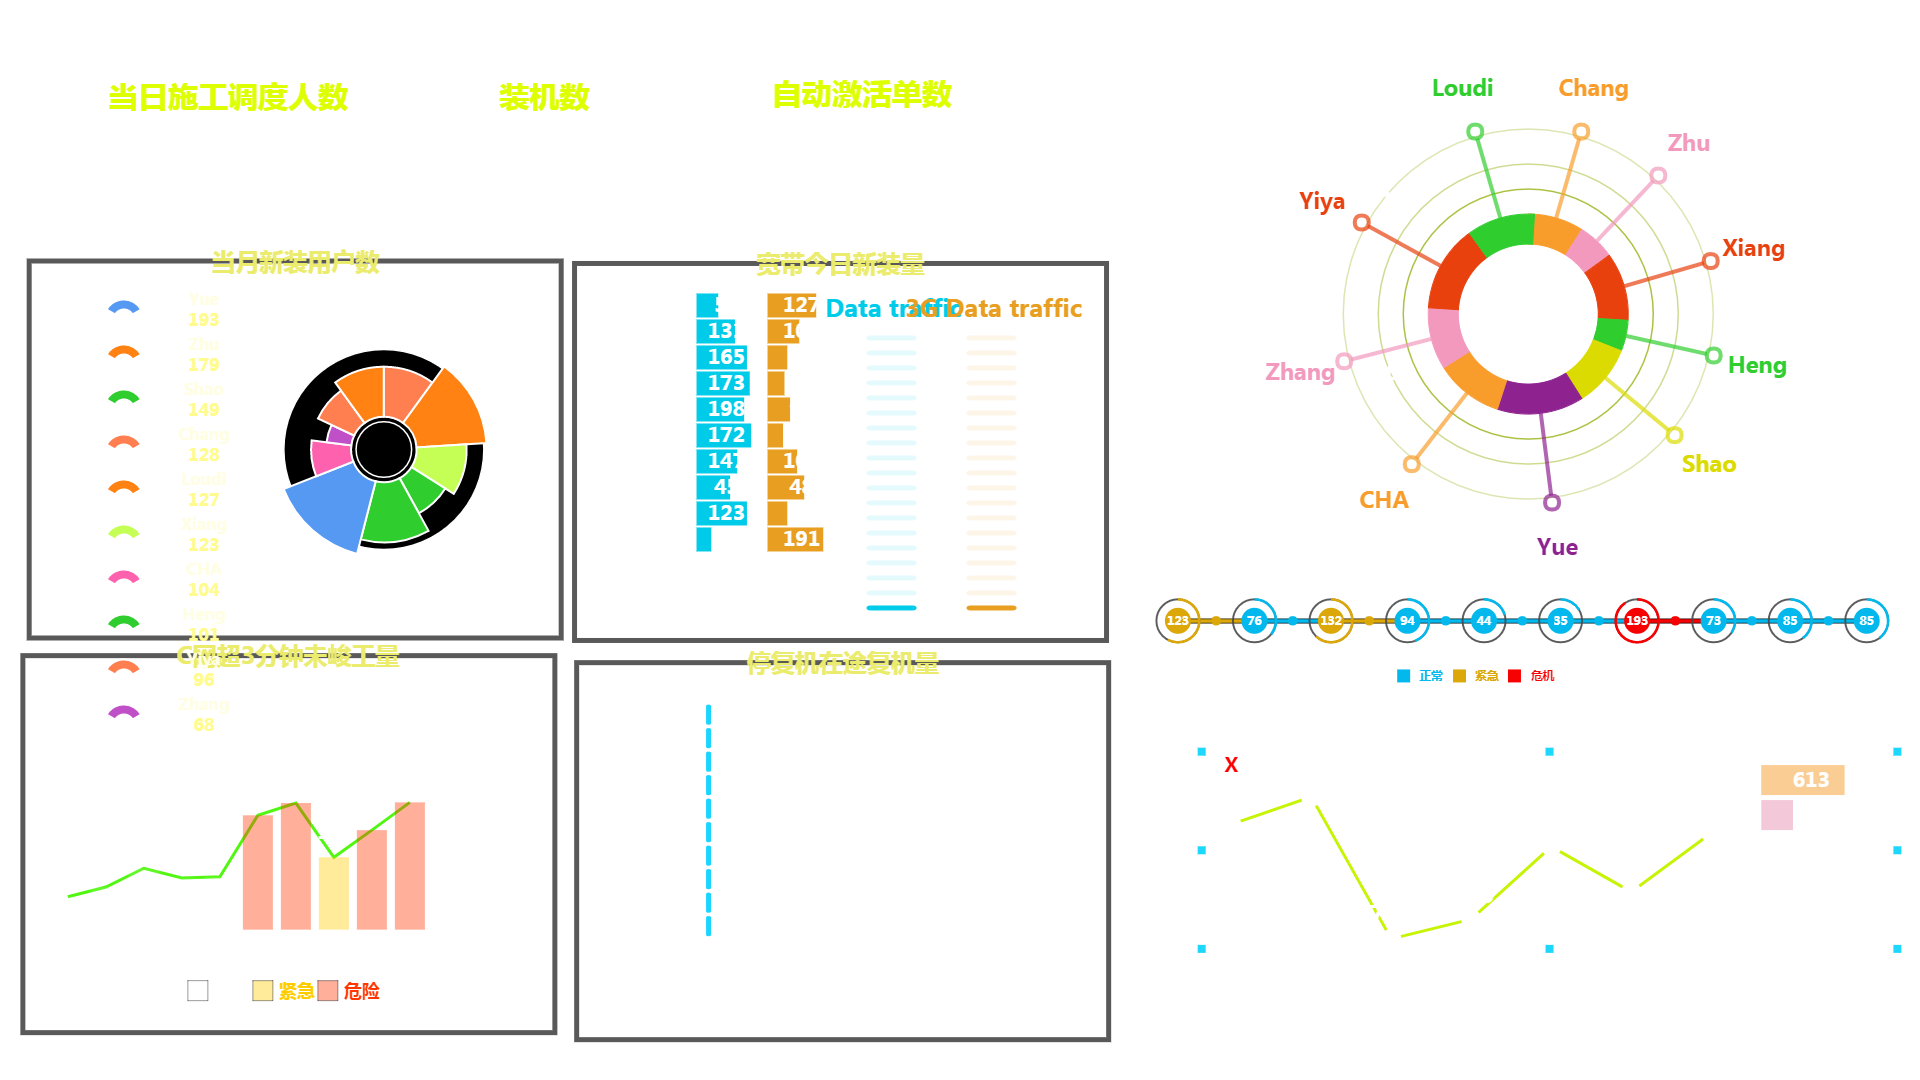
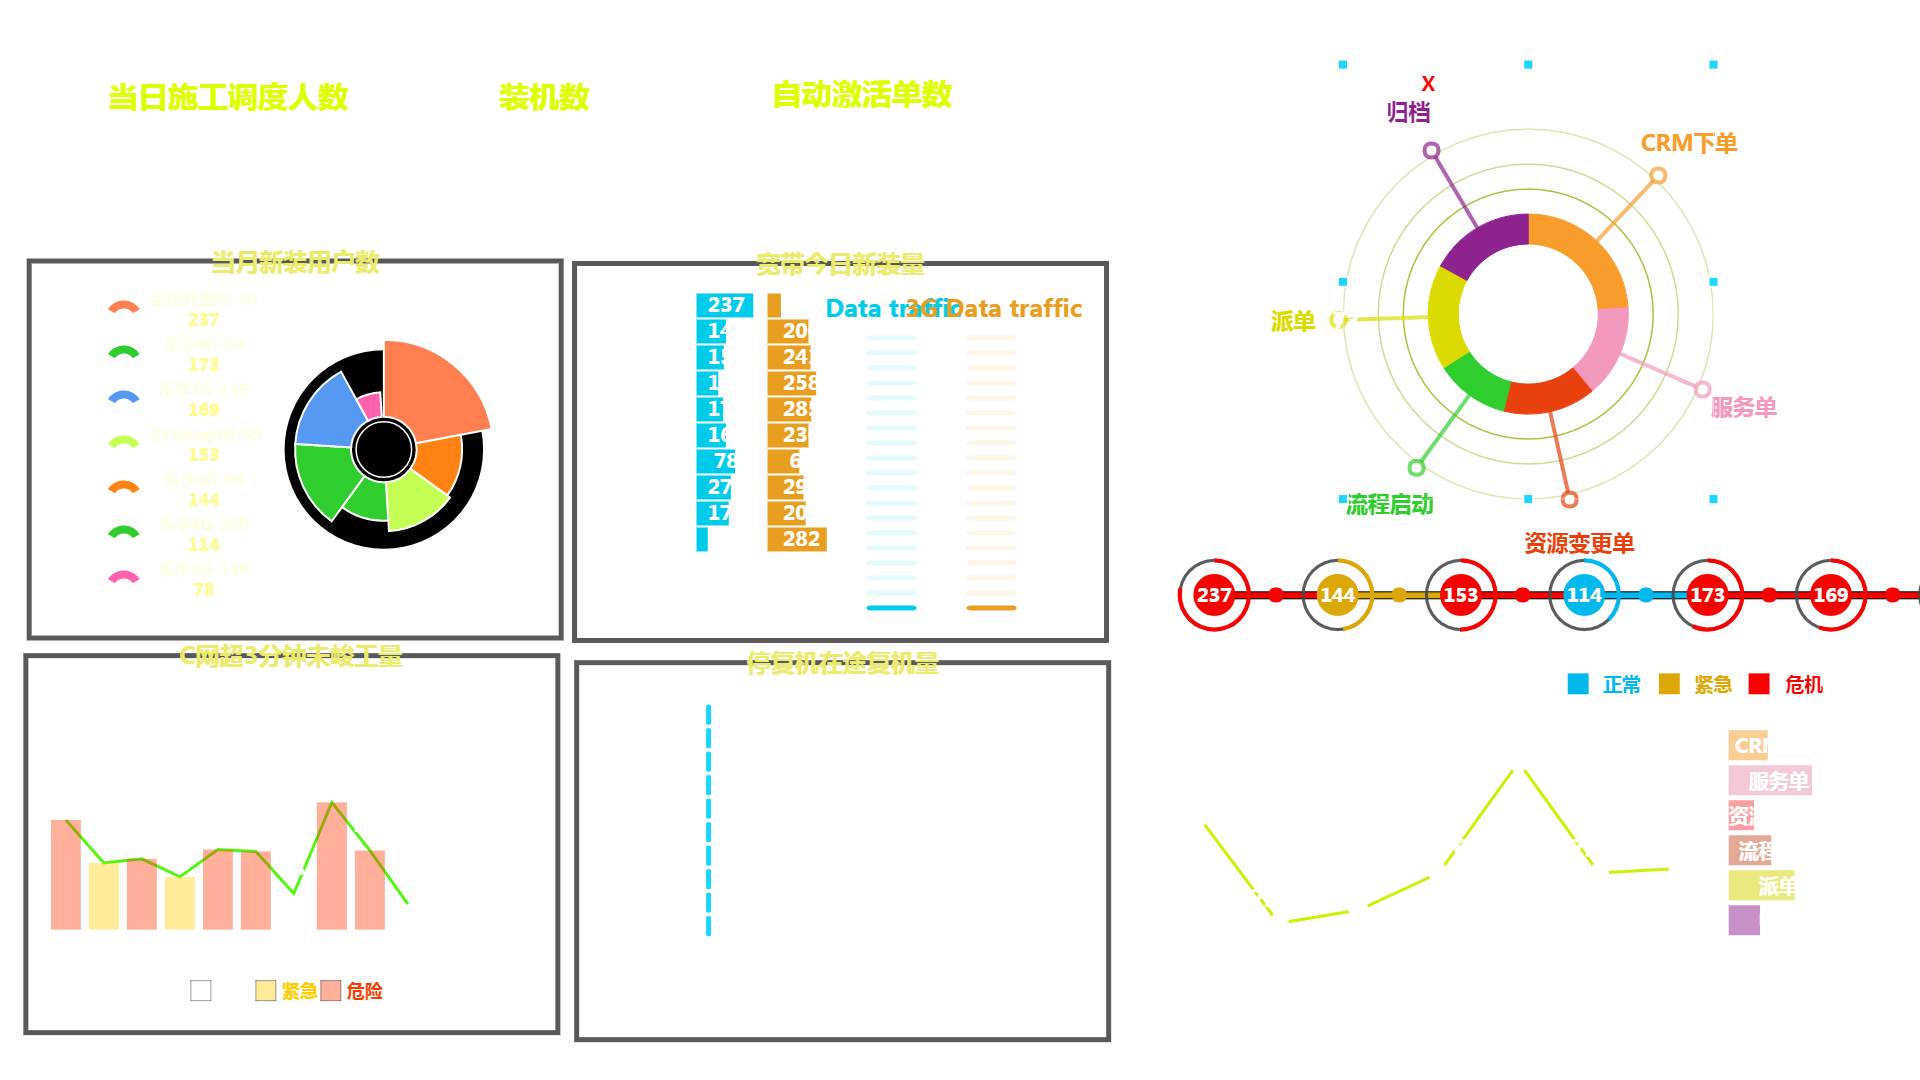
所需要图片

diff --git a/pm2/screendesigner/js/graphLibs/GTableBase.js b/pm2/screendesigner/js/graphLibs/GTableBase.js
@@ -37,6 +37,10 @@ define([
 
             //this.attrs.titles.push('序号');
 
+
+            var condiFmts = JSON.parse(this.attrs.condiFmtItemList||'[]')
+            console.log("condiFmts");
+            console.log(condiFmts);
             var heardes = this.attrs.titles;
             if (this.attrs.seqShow=='on'){
                 if (this.attrs.isSeqPos == 1) {
@@ -85,6 +89,8 @@ define([
             });
             var data_x = x;
             var data_y = y + box.height + box.height;
+              console.log("adhsahkjdhkjdhasjkdasjhj");
+
             for (var i = 0; i < datas.length; i++) {
                 var data;
                 if (this.attrs.seqShow=='on'){
@@ -99,15 +105,19 @@ define([
 
                 var item_x = data_x;
                 var item_y = data_y + (box.height * i);
+
                 for (var j = 0; j < data.length; j++) {
+
                     var j_x = data_x + (j * (space+maxBoxW));
                     var color = this.attrs.valueColor;
                     if (this.attrs.seqShow=='on'){
                         if (j == data.length - 1 && this.attrs.isSeqPos == 2) color = this.attrs.seqColor;
                         if (j == 0 && this.attrs.isSeqPos == 1) color = this.attrs.seqColor;
                     }
+
+                    var color2 =  this.getColorByCondiFmts(heardes[j], data[j],condiFmts)
                     this.doms['data' + i + '_' + j] = paper.text(j_x, item_y, data[j]).attr({
-                        'fill': color,
+                        'fill': color2||color,
                         'font-size': 18,
                         'font-family': '微软雅黑',
                         'font-weight': 'bold'
@@ -129,6 +139,67 @@ define([
                 'font-weight': 'bold'
             });;
 
+        },
+        getColorByCondiFmts:function(name,value,condiFmts) {
+            var codi = fish.find(condiFmts,function(codi) {
+               return codi.KPI_INDEX==name
+            });
+            if(codi){
+
+              if(codi.KPI_FMT=="GT"){
+                 if(value>codi.KPI_VALUE){
+                    return codi.KPI_COLOR
+                 }
+                 return null;
+              }
+              if(codi.KPI_FMT=="BT"){
+                 var values= codi.KPI_VALUE.split('~');
+                 if(value>=values[0] && value<=values[1]){
+                     return codi.KPI_COLOR
+                 }
+                 return null;
+              }
+              if(codi.KPI_FMT=="EQ"){
+                 if(value==codi.KPI_VALUE){
+                    return codi.KPI_COLOR
+                 }
+                 return null;
+              }
+
+              if(codi.KPI_FMT=="NEQ"){
+                 if(value!=codi.KPI_VALUE){
+                    return codi.KPI_COLOR
+                 }
+                 return null;
+              }
+
+
+              if(codi.KPI_FMT=="LW"){
+                 if(value<codi.KPI_VALUE){
+                    return codi.KPI_COLOR
+                 }
+                 return null;
+              }
+
+              if(codi.KPI_FMT=="GE"){
+                 if(value>=codi.KPI_VALUE){
+                    return codi.KPI_COLOR
+                 }
+                 return null;
+              }
+
+
+              if(codi.KPI_FMT=="LE"){
+                 if(value<=codi.KPI_VALUE){
+                    return codi.KPI_COLOR
+                 }
+                 return null;
+              }
+
+              return null;
+            }else {
+              return null;
+            }
         },
         getDatas:function() {
             return this.attrs.datas;

diff --git a/pm2/screendesigner/js/graphLibs/views/GTableBaseView.js b/pm2/screendesigner/js/graphLibs/views/GTableBaseView.js
@@ -84,6 +84,7 @@ define([
                 this.listenTo(dialog, 'okEvent', this.wrap(function (data) {
                     self.gText.attrs.condiFmtItemList=JSON.stringify(data.condiFmtItemList);
                     this.condiFmtView.close();
+                    self.gText.redraw();
                 }));
                 this.listenTo(dialog, 'cancelEvent', this.wrap(function (data) {
                     this.condiFmtView.close();
